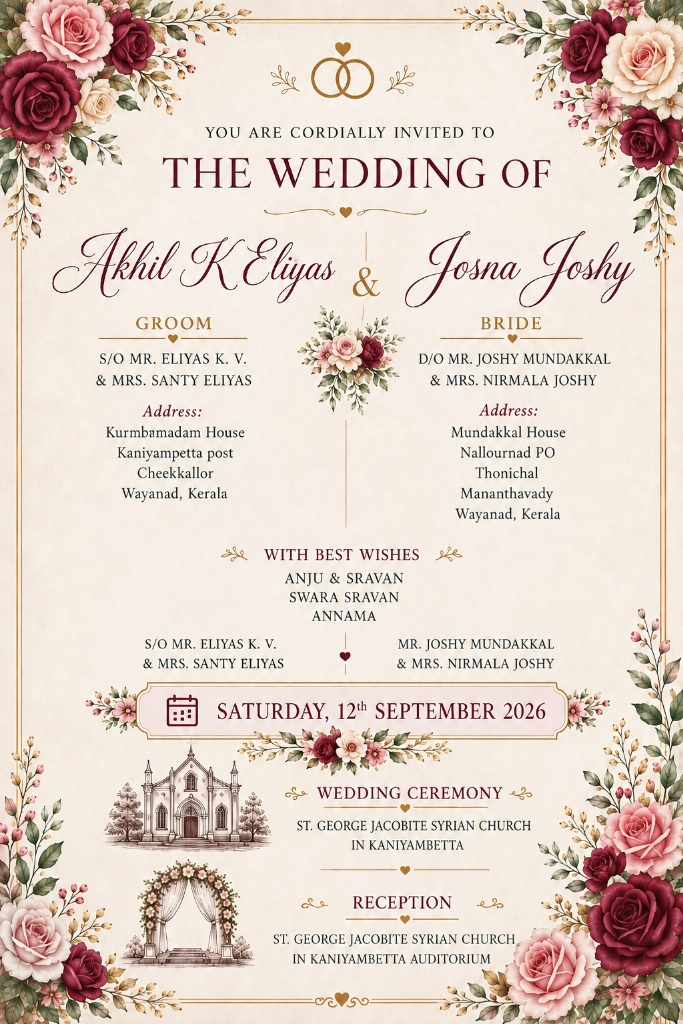
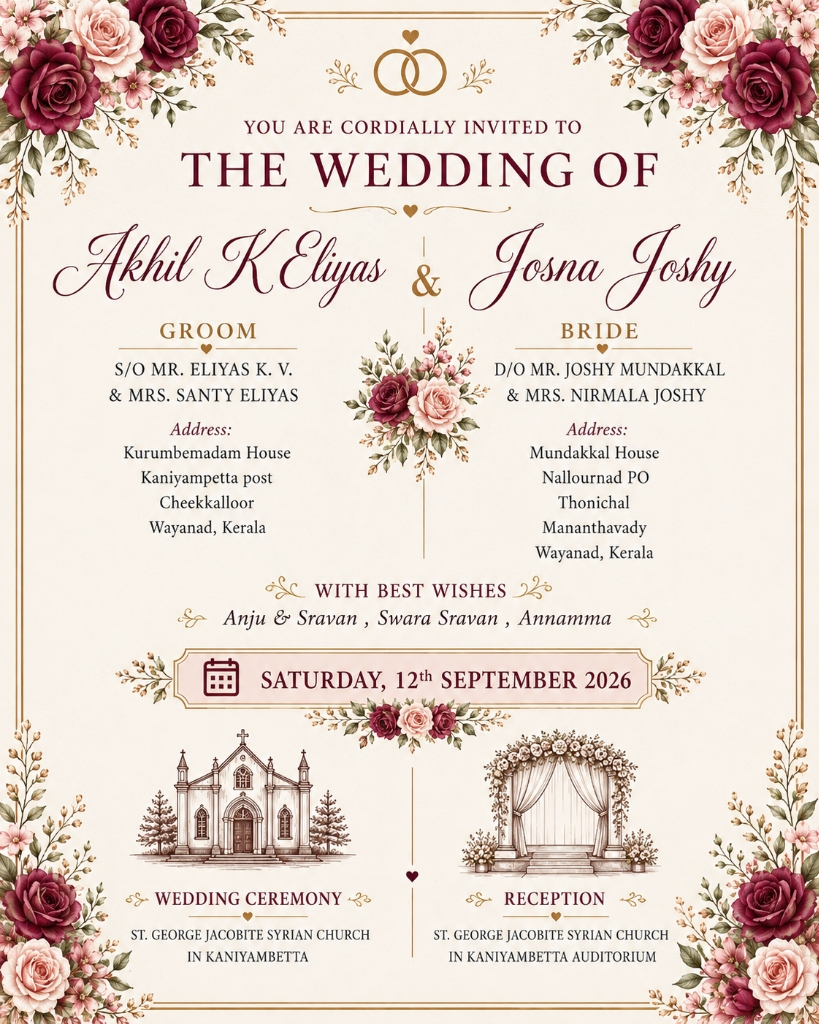
feat: Update invitation card images and fix typo in CoupleSection component address

diff --git a/dist/index.html b/dist/index.html
@@ -32,7 +32,7 @@
     <link href="https://fonts.googleapis.com/css2?family=Alex+Brush&family=Cinzel:wght@400;500;600;700;800&family=Cormorant+Garamond:ital,wght@0,400;0,500;0,600;0,700;1,400;1,600&family=Great+Vibes&family=Inter:wght@300;400;500;600;700&display=swap" rel="stylesheet">
     
     <link rel="icon" type="image/jpeg" href="/images/oil-painting-portrait.jpg" />
-    <script type="module" crossorigin src="/assets/index-CTsBHFFA.js"></script>
+    <script type="module" crossorigin src="/assets/index-g0dLAaT8.js"></script>
     <link rel="stylesheet" crossorigin href="/assets/index-A7kkHNek.css">
   </head>
   <body class="bg-[#FAF7F2] text-[#2C2623] antialiased selection:bg-[#C5A059]/20 selection:text-[#8B263E] overflow-x-hidden">

diff --git a/src/components/CoupleSection.jsx b/src/components/CoupleSection.jsx
@@ -54,7 +54,7 @@ export default function CoupleSection() {
                   <Home className="w-3.5 h-3.5" /> Residence Address
                 </div>
                 <p className="font-serif italic text-sm text-[#2C2623]/90 leading-relaxed">
-                  Kurmbemadam House<br />
+                  Kurumbemadam House<br />
                   Kaniyampetta post, Cheekkalloor<br />
                   Wayanad, Kerala
                 </p>
